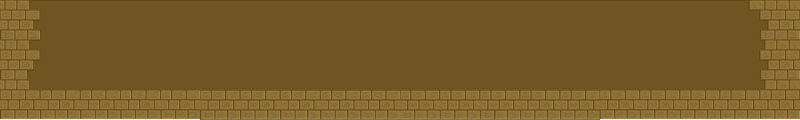
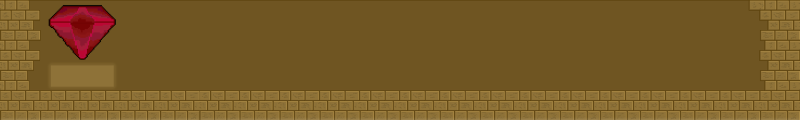
Interface Start

diff --git a/game/Welt.java b/game/Welt.java
@@ -42,6 +42,8 @@ public class Welt
       private boolean LockExists;
       private UIBOTTOM uibottom;
  
+      
+      public static final Color BEIGE = new Color(147,117,58);
   public Welt()
   {
       loadNextLevel(); //ruft die Methode zum Laden eines neuen Levels auf
@@ -130,14 +132,6 @@ public class Welt
          {
             underPlayer = i;
          }
-         // for (BewegtesObjekt j : zeugs)
-         // {
-         // if(Collision.RechteckZuRechteck(i.x,i.y, Textur.kachelgroesse, Textur.kachelgroesse, j.x, j.y, Textur.kachelgroesse, 
-                     // Textur.kachelgroesse))
-                     // {
-                         // i.resetPosition();
-                    // }
-                    // }
       } 
       if (underPlayer != null) {
         zeugs.remove(underPlayer);
@@ -159,11 +153,6 @@ public class Welt
             spieler.resetPosition();
         }
       }
-      /*
-       for (BewegtesObjekt i : zeugs) {
-           i.setOther(zeugs);
-        }
-       */
   }
   public void draw(Graphics g)
   {    
@@ -189,12 +178,9 @@ public class Welt
       }
       spieler.draw(g);
       
-      g.setColor(Color.BLACK);
+      g.setColor(BEIGE);
       g.setFont(font);
-      g.drawString("Rubine: " + punkte +"/"+(int)zuSammelndeRubine, 500, 740+g.getFont().getSize());
-      // System.out.println("erzeugte Rubine: " + anzahlRubine);  
-      // System.out.println("zu Sammelnde Rubine: " + zuSammelndeRubine);
-      // System.out.println("Punkte:" + punkte);
+      g.drawString(punkte +"/"+(int)zuSammelndeRubine, 60, 870+g.getFont().getSize());
     }
   
 }

diff --git a/game/UIBOTTOM.java b/game/UIBOTTOM.java
@@ -20,5 +20,6 @@ public class UIBOTTOM
     public void draw(Graphics g)
     {
         g.drawImage(look, x, y, null);
+
     }
 }
